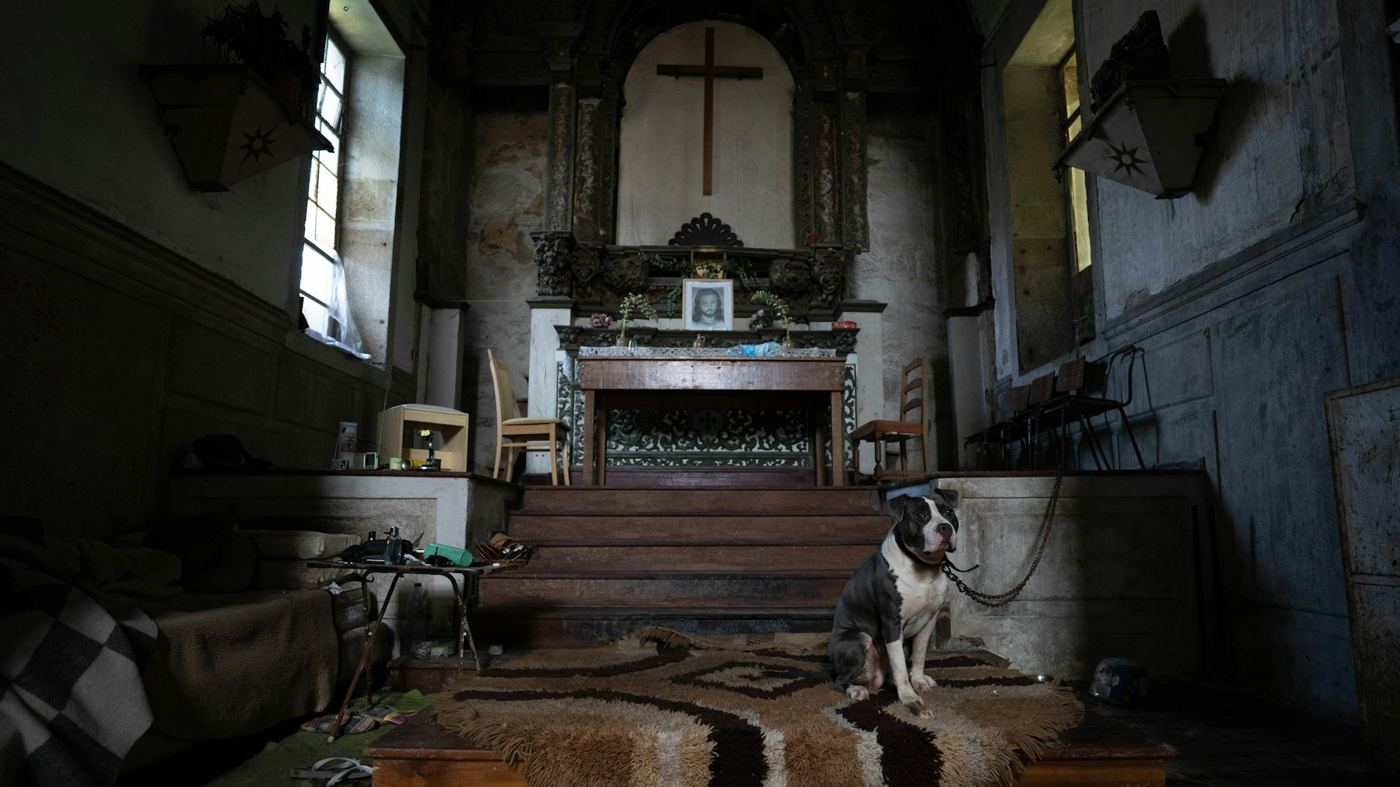
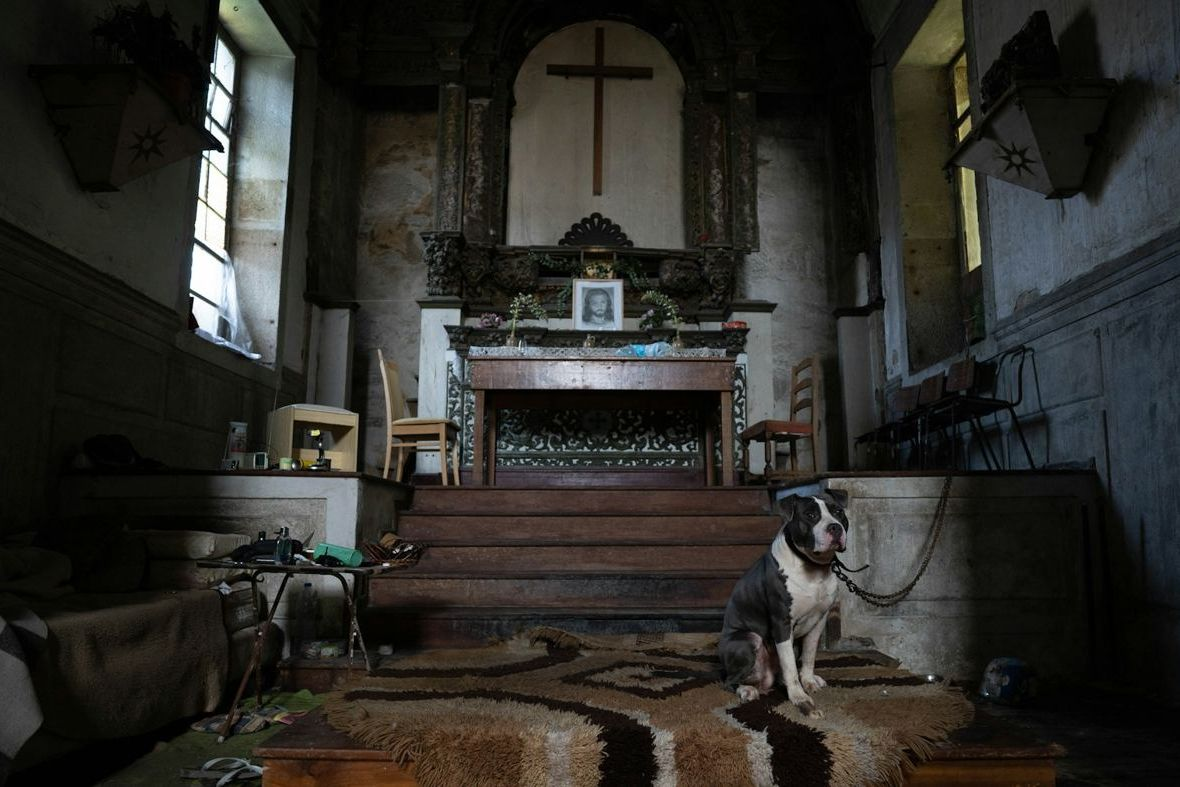
Kolibri-Seite: Licht- und Farbspiel folgt echten Objekten (Fensterlicht, Himmel, Möbel, Pflanzen, Vorhänge) statt Farbflecken
Claude-Session: https://claude.ai/code/session_01BfUFskKUTpTaCydK1EPK3d

diff --git a/public/hauptseite/referenzen/make-it-real/index.html b/public/hauptseite/referenzen/make-it-real/index.html
@@ -45,15 +45,26 @@ select{width:100%;background:#0b1030;border:1px solid #5666a8;color:white;border
 .ru-grid{display:grid;grid-template-columns:repeat(3,minmax(0,1fr));gap:16px}
 .ru{margin:0;position:relative;border-radius:12px;overflow:hidden;border:1px solid #5666a8;background:#0b1030;aspect-ratio:3/2}
 .ru-open{display:block;width:100%;height:100%;padding:0;border:0;background:none;cursor:zoom-in}.ru img{width:100%;height:100%;object-fit:cover;display:block}
-.ru::after{content:"";position:absolute;inset:0;background:var(--cyan);mix-blend-mode:soft-light;opacity:.95;pointer-events:none;transition:background 1.4s ease-in-out;-webkit-mask-image:var(--m);mask-image:var(--m)}
-.ru::before{content:"";position:absolute;inset:0;z-index:0;background:var(--cyan);mix-blend-mode:color;opacity:.6;pointer-events:none;transition:background 1.4s ease-in-out;-webkit-mask-image:var(--m);mask-image:var(--m)}
 .ru figcaption{position:absolute;left:0;right:0;bottom:0;z-index:1;padding:26px 12px 9px;font-size:10.5px;line-height:1.45;color:#e6eaff;background:linear-gradient(0deg,rgba(11,16,48,.92),rgba(11,16,48,0));pointer-events:none}
 .ru figcaption b{display:block;font-size:12.5px;font-weight:700;color:#fff;margin-bottom:1px}
 #ruDlg{border:1px solid #5666a8;border-radius:14px;background:#0b1030;color:var(--ink);padding:14px;max-width:min(1100px,94vw)}#ruDlg::backdrop{background:rgba(4,7,24,.82)}
 #ruDlg img{display:block;max-width:100%;max-height:78vh;margin:auto;border-radius:8px}#ruDlg p{margin:10px 2px 0;font-size:13px;color:#d6dcf6}
 .ru-x{position:absolute;right:10px;top:6px;background:none;border:0;color:#fff;font-size:30px;line-height:1;cursor:pointer;z-index:2}.ru-x:focus-visible,.ru-open:focus-visible{outline:2px solid #fff;outline-offset:-3px}
 @media(max-width:980px){.ru-grid{grid-template-columns:repeat(2,minmax(0,1fr))}}@media(max-width:560px){.ru-grid{grid-template-columns:1fr}}
-@media(prefers-reduced-motion:reduce){.ru::after,.ru::before{transition:none!important}}
+@media(prefers-reduced-motion:reduce){.ru::after,}
+
+/* ---- Verlassene Orte: einzelne Dinge im Bild spielen mit Licht und Farbe (Masken folgen den Objekten) ---- */
+@property --mh{syntax:'<angle>';inherits:true;initial-value:0deg}
+@property --lh{syntax:'<angle>';inherits:true;initial-value:130deg}
+:root{transition:--mh 1.6s ease-in-out,--lh 1.6s ease-in-out}
+.fx{position:absolute;inset:0;z-index:0;pointer-events:none;background-image:var(--img);background-size:100% 100%;-webkit-mask-image:var(--mk);mask-image:var(--mk);-webkit-mask-size:100% 100%;mask-size:100% 100%;-webkit-mask-repeat:no-repeat;mask-repeat:no-repeat;animation-delay:var(--d,0s);animation-iteration-count:infinite;animation-direction:alternate;animation-timing-function:ease-in-out}
+.fx-licht{animation-name:fxlicht;animation-duration:5.5s;filter:brightness(1.3) sepia(.9) saturate(2.4) hue-rotate(var(--lh))}
+.fx-himmel{animation-name:fxhimmel;animation-duration:9s;filter:brightness(.95) sepia(.7) saturate(1.8) hue-rotate(var(--lh))}
+.fx-farbe{animation-name:fxfarbe;animation-duration:7s;filter:hue-rotate(var(--mh)) saturate(1.3)}
+@keyframes fxlicht{from{filter:brightness(.6) sepia(.9) saturate(2.2) hue-rotate(var(--lh))}to{filter:brightness(1.75) sepia(.9) saturate(2.6) hue-rotate(var(--lh))}}
+@keyframes fxhimmel{from{filter:brightness(.7) sepia(.8) saturate(2) hue-rotate(var(--lh))}to{filter:brightness(1.15) sepia(.6) saturate(1.6) hue-rotate(var(--lh))}}
+@keyframes fxfarbe{from{filter:hue-rotate(calc(var(--mh) - 40deg)) saturate(1.2)}to{filter:hue-rotate(calc(var(--mh) + 40deg)) saturate(1.5)}}
+@media(prefers-reduced-motion:reduce){.fx{animation:none!important}}
 @media(prefers-reduced-motion:reduce){.hero-art,.art-window,h1 span,.strip b,.offer small,.primary{transition:none!important}}
 </style></head><body><aside class="topbar"><a href="../../index.html#/referenzen">← Zurück zur SECRET-58-Zentrale · Referenzen</a><span class="tag">Eigenes Designkonzept, kein Kundenauftrag</span><a href="../../index.html#/kontakt?bereich=webdesign&text=Ich%20m%C3%B6chte%20eine%20Webseite%20%C3%A4hnlich%20wie%20das%20Designkonzept%20%E2%80%9EMake%20it%20real.%20%E2%80%93%20Kreative%20Landingpage%E2%80%9C." style="color:#86e6cf">Ähnliche Webseite anfragen ↗</a></aside>
 <header><a class="logo" href="#" aria-label="Make it real Startseite"><i></i>make it real.</a><nav aria-label="Hauptnavigation"><a href="#idee">Die Idee</a><a href="#inspiration">Inspiration</a><a href="#weg">Der Weg</a><a href="#werkstatt">Werkstatt</a><a class="navcta" href="#werkstatt">Lass uns starten ↗</a></nav></header>
@@ -62,7 +73,7 @@ select{width:100%;background:#0b1030;border:1px solid #5666a8;color:white;border
 <section id="idee"><div class="eyebrow">Mehr als eine schöne Idee</div><div class="sectiontop"><h2>Es beginnt mit einem Funken.<br>Es bleibt ein Eindruck.</h2><p>Wie ein Kolibri: voller Energie, unverwechselbar und immer in Bewegung. Genau so darf sich deine nächste Idee anfühlen.</p></div><div class="offers"><article class="offer"><small>01 / KLARHEIT</small><h3>Deine Vision. Auf den Punkt.</h3><p>Was möchtest du verändern? Für wen? Aus einem ersten Gedanken wird eine klare Richtung.</p><span class="tag">IDEE & KONZEPT ↗</span></article><article class="offer"><small>02 / AUSDRUCK</small><h3>Mut zur eigenen Farbe.</h3><p>Farben, Formen und Worte, die zusammenpassen. Ein Auftritt, der deine Persönlichkeit sichtbar macht.</p><span class="tag">DESIGN & IDENTITÄT ↗</span></article><article class="offer"><small>03 / BEWEGUNG</small><h3>Vom Kopf in die Welt.</h3><p>Eine Seite zum Entdecken. Eine Geschichte zum Weitererzählen. Ein nächster Schritt, der sich richtig anfühlt.</p><span class="tag">WEB & ERLEBNIS ↗</span></article></div></section>
 <section class="experience" id="inspiration"><div class="visual"><div class="art-window" id="art" data-tint role="img" aria-label="Kolibri-Farbexperiment"></div><div class="visual-copy"><div class="eyebrow">Ein Motiv. Neue Möglichkeiten.</div><h2 style="margin-top:25px">Weniger gewöhnlich.<br>Mehr du.</h2><p>Ein kleiner Perspektivwechsel kann alles verändern. Das Motiv bleibt ruhig – nur die Farbstimmung wechselt alle zwei Sekunden zwischen Türkis, Violett und Gold. Pausiere den Wechsel oder wähle deine Farbe selbst.</p><div class="mood-bar" style="margin-top:0" role="group" aria-label="Farbstimmung wählen"><div class="palette"><button type="button" class="swatch" style="background:#86e6cf" data-mood="0" aria-label="Türkis" aria-pressed="true"></button><button type="button" class="swatch" style="background:#b9a8ff" data-mood="1" aria-label="Violett" aria-pressed="false"></button><button type="button" class="swatch" style="background:#e8c76a" data-mood="2" aria-label="Gold" aria-pressed="false"></button></div><button type="button" class="cyclebtn" data-cycle aria-pressed="false">Farbwechsel pausieren</button></div><div class="palette-label" data-mood-label>Türkis · Klar. Lebendig. Grenzenlos.</div><p class="mood-note" data-cycle-note></p><p class="sr-only" id="moodStatus" role="status"></p></div></div></section>
 <section id="weg"><div class="eyebrow">Von „Was wäre, wenn?“ zu „Wow.“</div><div class="sectiontop"><h2>Große Ideen.<br>Ein klarer nächster Schritt.</h2></div><div class="steps"><article><small>01 — ENTDECKEN</small><h3>Gib der Idee Raum.</h3><p>Sammle, was dich inspiriert. Ein Bild, ein Gefühl, ein Ziel. Der Anfang muss noch nicht perfekt sein.</p></article><article><small>02 — FORMEN</small><h3>Mach sie greifbar.</h3><p>Wähle eine Richtung und konzentriere dich auf das Wesentliche. Was soll jemand sehen, fühlen und tun?</p></article><article><small>03 — STARTEN</small><h3>Bring sie ins Rollen.</h3><p>Halte deinen ersten konkreten Schritt fest. Aus „irgendwann“ wird ein Projekt mit einer Richtung.</p></article></div></section>
-<section class="makro" id="makro"><div class="eyebrow">Makrofotografie</div><div class="sectiontop"><h2>Farbe im Detail.<br>Nah genug zum Staunen.</h2><p>Ein Federmotiv in Makro: Das Foto bleibt gleich, nur der Farbton wechselt mit der gewählten Stimmung – Türkis, Violett, Gold.</p></div><div class="mk-grid"><figure class="mk big"><div class="mk-img" data-tint-mk role="img" aria-label="Makrofoto einer schillernden Pfauenfeder mit blauem Auge, der Farbton folgt der gewählten Stimmung"></div><figcaption>Makro · Stimmung: <span data-mood-label></span></figcaption></figure><figure class="mk d1"><div class="mk-img" data-tint-mk role="img" aria-label="Detailausschnitt der Feder, Struktur und Glanz"></div><figcaption>Detail · Struktur</figcaption></figure><figure class="mk d2"><div class="mk-img" data-tint-mk role="img" aria-label="Detailausschnitt der Feder, Farbverlauf"></div><figcaption>Detail · Farbverlauf</figcaption></figure></div><p class="mk-note">Foto: Akshat Sharma auf Unsplash (freie Nutzung unter der Unsplash-Lizenz). Platzhalter für eigene Makroaufnahmen von SECRET 58; es zeigt keine Personen und keine Kundenprojekte.</p><div class="ruinen"><h3>Verlassene Orte</h3><p class="sub">Alte Kirchen, Ruinen und aufgegebene Räume, in denen Möbel und Spuren des Lebens zurückgeblieben sind. Die Fotos bleiben, wie sie sind. Nur ausgewählte Details (zum Beispiel Stühle, Fenster, Hund, Graffiti, Türen) wechseln mit der Stimmung ihre Farbe. Ein Klick zeigt das Originalfoto groß.</p><div class="ru-grid"><figure class="ru" style="--m:radial-gradient(ellipse 8% 16% at 64% 72%,#000 50%,transparent 100%),radial-gradient(ellipse 9% 20% at 50% 24%,#000 50%,transparent 100%)"><button type="button" class="ru-open" aria-label="Foto vergrößern: Verlassene Kirche mit Altar"><img src="ruinen/ruine-01.jpg" alt="Verlassene Kirche mit Altar, Kreuz und Teppich im Licht eines Fensters" loading="lazy" width="1400" height="787"></button><figcaption><b>Verlassene Kirche mit Altar</b>Foto: Gary Walker-Jones · Unsplash</figcaption></figure><figure class="ru" style="--m:radial-gradient(ellipse 30% 30% at 58% 45%,#000 50%,transparent 100%)"><button type="button" class="ru-open" aria-label="Foto vergrößern: Verlassene Holzkirche"><img src="ruinen/ruine-02.jpg" alt="Verlassene Holzkirche mit Türmchen und verwittertem Holz auf einer Wiese" loading="lazy" width="1400" height="933"></button><figcaption><b>Verlassene Holzkirche</b>Foto: Unsplash</figcaption></figure><figure class="ru" style="--m:radial-gradient(ellipse 7% 11% at 21% 45%,#000 50%,transparent 100%)"><button type="button" class="ru-open" aria-label="Foto vergrößern: Alte Steinkirche mit Rundfenster"><img src="ruinen/ruine-03.jpg" alt="Alte Steinkirche mit Spitzbogenfenster und rundem Fenster" loading="lazy" width="1400" height="933"></button><figcaption><b>Alte Steinkirche mit Rundfenster</b>Foto: Unsplash</figcaption></figure><figure class="ru" style="--m:radial-gradient(ellipse 10% 17% at 52% 40%,#000 50%,transparent 100%)"><button type="button" class="ru-open" aria-label="Foto vergrößern: Verlassene Kirche, Langschiff"><img src="ruinen/ruine-04.jpg" alt="Langschiff einer verlassenen Kirche mit Säulen und Bogenfenstern" loading="lazy" width="1400" height="933"></button><figcaption><b>Verlassene Kirche, Langschiff</b>Foto: Unsplash</figcaption></figure><figure class="ru" style="--m:radial-gradient(ellipse 12% 11% at 11% 88%,#000 50%,transparent 100%),radial-gradient(ellipse 12% 9% at 83% 90%,#000 50%,transparent 100%)"><button type="button" class="ru-open" aria-label="Foto vergrößern: Kirchenruine mit Backsteinboden"><img src="ruinen/ruine-05.jpg" alt="Kirchenruine mit Bögen, Backsteinboden und Pflanzen" loading="lazy" width="1400" height="933"></button><figcaption><b>Kirchenruine mit Backsteinboden</b>Foto: Unsplash</figcaption></figure><figure class="ru" style="--m:radial-gradient(ellipse 9% 15% at 53% 57%,#000 50%,transparent 100%)"><button type="button" class="ru-open" aria-label="Foto vergrößern: Gewölbte Ruinenhalle"><img src="ruinen/ruine-06.jpg" alt="Hohe gewölbte Halle einer Ruine mit großem Spitzbogenfenster" loading="lazy" width="1400" height="933"></button><figcaption><b>Gewölbte Ruinenhalle</b>Foto: Unsplash</figcaption></figure><figure class="ru" style="--m:radial-gradient(ellipse 19% 15% at 45% 33%,#000 50%,transparent 100%),radial-gradient(ellipse 5% 8% at 68% 38%,#000 50%,transparent 100%)"><button type="button" class="ru-open" aria-label="Foto vergrößern: Verlassener Theatersaal"><img src="ruinen/ruine-07.jpg" alt="Leerer Theatersaal mit Bühne, Vorhängen und Bogenfenstern in rotem Licht" loading="lazy" width="1400" height="931"></button><figcaption><b>Verlassener Theatersaal</b>Foto: Unsplash</figcaption></figure><figure class="ru" style="--m:radial-gradient(ellipse 24% 22% at 46% 76%,#000 50%,transparent 100%)"><button type="button" class="ru-open" aria-label="Foto vergrößern: Ruine mit eingestürztem Dach"><img src="ruinen/ruine-08.jpg" alt="Ruine mit eingestürztem Dach, Licht fällt durch die Balken, Pflanzen wachsen im Inneren" loading="lazy" width="1400" height="933"></button><figcaption><b>Ruine mit eingestürztem Dach</b>Foto: Inna Nasonova · Unsplash</figcaption></figure><figure class="ru" style="--m:radial-gradient(ellipse 46% 24% at 52% 70%,#000 50%,transparent 100%)"><button type="button" class="ru-open" aria-label="Foto vergrößern: Verlassener Saal mit Möbeln"><img src="ruinen/ruine-09.jpg" alt="Verlassener Saal mit umgestürzten Stühlen, Tischen und zersplittertem Glas" loading="lazy" width="1400" height="933"></button><figcaption><b>Verlassener Saal mit Möbeln</b>Foto: Intricate Explorer · Unsplash</figcaption></figure><figure class="ru" style="--m:radial-gradient(ellipse 13% 11% at 80% 72%,#000 50%,transparent 100%),radial-gradient(ellipse 5% 26% at 51% 62%,#000 50%,transparent 100%)"><button type="button" class="ru-open" aria-label="Foto vergrößern: Verfallener Raum mit Holzmöbeln"><img src="ruinen/ruine-10.jpg" alt="Verlassener Raum mit zerfallenden Wänden und Holzmöbeln" loading="lazy" width="1400" height="931"></button><figcaption><b>Verfallener Raum mit Holzmöbeln</b>Foto: Ed Stone · Unsplash</figcaption></figure><figure class="ru" style="--m:radial-gradient(ellipse 18% 23% at 46% 40%,#000 50%,transparent 100%)"><button type="button" class="ru-open" aria-label="Foto vergrößern: Bogenfenster im verlassenen Raum"><img src="ruinen/ruine-11.jpg" alt="Hohes Bogenfenster in einem verfallenen Raum mit Regal und Tisch" loading="lazy" width="1400" height="932"></button><figcaption><b>Bogenfenster im verlassenen Raum</b>Foto: Peter Herrmann · Unsplash</figcaption></figure><figure class="ru" style="--m:radial-gradient(ellipse 11% 33% at 55% 58%,#000 50%,transparent 100%)"><button type="button" class="ru-open" aria-label="Foto vergrößern: Offene Türen und Schutt"><img src="ruinen/ruine-12.jpg" alt="Verfallenes Gebäude mit offenen Türen und Schutt auf dem Boden" loading="lazy" width="1400" height="934"></button><figcaption><b>Offene Türen und Schutt</b>Foto: Ries Bosch · Unsplash</figcaption></figure><figure class="ru" style="--m:radial-gradient(ellipse 19% 13% at 30% 70%,#000 50%,transparent 100%)"><button type="button" class="ru-open" aria-label="Foto vergrößern: Sonnenlicht und alte Matratzen"><img src="ruinen/ruine-13.jpg" alt="Sonnendurchfluteter verlassener Raum mit alten Matratzen und zerbrochenen Fenstern" loading="lazy" width="1400" height="933"></button><figcaption><b>Sonnenlicht und alte Matratzen</b>Foto: X F · Unsplash</figcaption></figure><figure class="ru" style="--m:radial-gradient(ellipse 9% 15% at 42% 68%,#000 50%,transparent 100%)"><button type="button" class="ru-open" aria-label="Foto vergrößern: Blick durch eine offene Tür"><img src="ruinen/ruine-14.jpg" alt="Dunkler Raum mit Blick durch eine offene Tür auf einen Stuhl" loading="lazy" width="1400" height="933"></button><figcaption><b>Blick durch eine offene Tür</b>Foto: Unsplash</figcaption></figure><figure class="ru" style="--m:radial-gradient(ellipse 14% 27% at 21% 47%,#000 50%,transparent 100%),radial-gradient(ellipse 11% 16% at 70% 72%,#000 50%,transparent 100%)"><button type="button" class="ru-open" aria-label="Foto vergrößern: Rotes Zimmer mit Fenstern"><img src="ruinen/ruine-15.jpg" alt="Verlassenes Zimmer mit roten Wänden und zwei Fenstern" loading="lazy" width="1400" height="933"></button><figcaption><b>Rotes Zimmer mit Fenstern</b>Foto: Unsplash</figcaption></figure><figure class="ru" style="--m:radial-gradient(ellipse 10% 16% at 12% 36%,#000 50%,transparent 100%),radial-gradient(ellipse 6% 7% at 86% 68%,#000 50%,transparent 100%)"><button type="button" class="ru-open" aria-label="Foto vergrößern: Sonnenlicht im leeren Raum"><img src="ruinen/ruine-16.jpg" alt="Leerer verfallener Raum, warmes Licht fällt durch die Fenster" loading="lazy" width="1400" height="933"></button><figcaption><b>Sonnenlicht im leeren Raum</b>Foto: Unsplash</figcaption></figure><figure class="ru" style="--m:radial-gradient(ellipse 13% 13% at 46% 70%,#000 50%,transparent 100%),radial-gradient(ellipse 12% 7% at 10% 91%,#000 50%,transparent 100%)"><button type="button" class="ru-open" aria-label="Foto vergrößern: Verfallene Fabrikhalle mit Dachlicht"><img src="ruinen/ruine-17.jpg" alt="Verfallene Fabrikhalle mit Stahlträgern und Licht durch das Dach" loading="lazy" width="1400" height="933"></button><figcaption><b>Verfallene Fabrikhalle mit Dachlicht</b>Foto: Unsplash</figcaption></figure><figure class="ru" style="--m:radial-gradient(ellipse 6% 8% at 53% 72%,#000 50%,transparent 100%)"><button type="button" class="ru-open" aria-label="Foto vergrößern: Endlose Säulenhalle"><img src="ruinen/ruine-18.jpg" alt="Lange Halle mit Holzsäulen in einem verlassenen Gebäude" loading="lazy" width="1400" height="933"></button><figcaption><b>Endlose Säulenhalle</b>Foto: Unsplash</figcaption></figure><figure class="ru" style="--m:radial-gradient(ellipse 32% 13% at 50% 87%,#000 50%,transparent 100%)"><button type="button" class="ru-open" aria-label="Foto vergrößern: Überflutete Stahlhalle"><img src="ruinen/ruine-19.jpg" alt="Ausgebrannte Stahlhalle, Wasser spiegelt das Gerüst" loading="lazy" width="1400" height="933"></button><figcaption><b>Überflutete Stahlhalle</b>Foto: Unsplash</figcaption></figure><figure class="ru" style="--m:radial-gradient(ellipse 49% 8% at 50% 73%,#000 50%,transparent 100%),radial-gradient(ellipse 7% 6% at 84% 94%,#000 50%,transparent 100%)"><button type="button" class="ru-open" aria-label="Foto vergrößern: Halle, die die Natur zurückholt"><img src="ruinen/ruine-20.jpg" alt="Verfallene Halle mit Bogenfenstern, Pflanzen und Sonnenstrahlen" loading="lazy" width="1400" height="933"></button><figcaption><b>Halle, die die Natur zurückholt</b>Foto: Unsplash</figcaption></figure></div><p class="mk-note">Alle Fotos stammen von Unsplash und dürfen dort unter der Unsplash-Lizenz kostenlos genutzt werden; bei den Bildern ohne Namen steht die Fotografin oder der Fotograf auf der jeweiligen Unsplash-Seite. Sie sind Beispiele für die Bildwelt dieses Designkonzepts. Die Orte sind nicht als öffentlich zugänglich zu verstehen, bitte nicht betreten.</p></div>
+<section class="makro" id="makro"><div class="eyebrow">Makrofotografie</div><div class="sectiontop"><h2>Farbe im Detail.<br>Nah genug zum Staunen.</h2><p>Ein Federmotiv in Makro: Das Foto bleibt gleich, nur der Farbton wechselt mit der gewählten Stimmung – Türkis, Violett, Gold.</p></div><div class="mk-grid"><figure class="mk big"><div class="mk-img" data-tint-mk role="img" aria-label="Makrofoto einer schillernden Pfauenfeder mit blauem Auge, der Farbton folgt der gewählten Stimmung"></div><figcaption>Makro · Stimmung: <span data-mood-label></span></figcaption></figure><figure class="mk d1"><div class="mk-img" data-tint-mk role="img" aria-label="Detailausschnitt der Feder, Struktur und Glanz"></div><figcaption>Detail · Struktur</figcaption></figure><figure class="mk d2"><div class="mk-img" data-tint-mk role="img" aria-label="Detailausschnitt der Feder, Farbverlauf"></div><figcaption>Detail · Farbverlauf</figcaption></figure></div><p class="mk-note">Foto: Akshat Sharma auf Unsplash (freie Nutzung unter der Unsplash-Lizenz). Platzhalter für eigene Makroaufnahmen von SECRET 58; es zeigt keine Personen und keine Kundenprojekte.</p><div class="ruinen"><h3>Verlassene Orte</h3><p class="sub">Alte Kirchen, Ruinen und aufgegebene Räume, in denen Möbel und Spuren des Lebens zurückgeblieben sind. Die Fotos bleiben, wie sie sind. Nur einzelne Dinge im Bild spielen mit Licht und Farbe, wenn es sie gibt: das Licht in Fenstern und Dachöffnungen wird heller und dunkler, ein Himmel wechselt seine Stimmung, Stühle, Pflanzen, Vorhänge oder Tapeten wechseln die Farbe. Die gewählte Stimmung bestimmt den Farbton. Ein Klick zeigt das Originalfoto groß.</p><div class="ru-grid"><figure class="ru"><button type="button" class="ru-open" aria-label="Foto vergrößern: Verlassene Kirche mit Altar"><img src="ruinen/ruine-01.jpg" alt="Verlassene Kirche mit Altar, Kreuz und Teppich im Licht eines Fensters" loading="lazy" width="1400" height="787"></button><span class="fx fx-licht" aria-hidden="true" style="--img:url(ruinen/ruine-01.jpg);--mk:url(ruinen/masken/01-a.png);--d:-1.7s"></span><figcaption><b>Verlassene Kirche mit Altar</b>Foto: Gary Walker-Jones · Unsplash · Spiel: Fensterlicht</figcaption></figure><figure class="ru"><button type="button" class="ru-open" aria-label="Foto vergrößern: Verlassene Holzkirche"><img src="ruinen/ruine-02.jpg" alt="Verlassene Holzkirche mit Türmchen und verwittertem Holz auf einer Wiese" loading="lazy" width="1400" height="933"></button><span class="fx fx-himmel" aria-hidden="true" style="--img:url(ruinen/ruine-02.jpg);--mk:url(ruinen/masken/02-a.png);--d:-3.4s"></span><figcaption><b>Verlassene Holzkirche</b>Foto: Unsplash · Spiel: Himmel</figcaption></figure><figure class="ru"><button type="button" class="ru-open" aria-label="Foto vergrößern: Alte Steinkirche mit Rundfenster"><img src="ruinen/ruine-03.jpg" alt="Alte Steinkirche mit Spitzbogenfenster und rundem Fenster" loading="lazy" width="1400" height="933"></button><span class="fx fx-himmel" aria-hidden="true" style="--img:url(ruinen/ruine-03.jpg);--mk:url(ruinen/masken/03-a.png);--d:-0.1s"></span><figcaption><b>Alte Steinkirche mit Rundfenster</b>Foto: Unsplash · Spiel: Himmel</figcaption></figure><figure class="ru"><button type="button" class="ru-open" aria-label="Foto vergrößern: Verlassene Kirche, Langschiff"><img src="ruinen/ruine-04.jpg" alt="Langschiff einer verlassenen Kirche mit Säulen und Bogenfenstern" loading="lazy" width="1400" height="933"></button><span class="fx fx-licht" aria-hidden="true" style="--img:url(ruinen/ruine-04.jpg);--mk:url(ruinen/masken/04-a.png);--d:-1.8s"></span><figcaption><b>Verlassene Kirche, Langschiff</b>Foto: Unsplash · Spiel: Licht in den Kirchenfenstern</figcaption></figure><figure class="ru"><button type="button" class="ru-open" aria-label="Foto vergrößern: Kirchenruine mit Backsteinboden"><img src="ruinen/ruine-05.jpg" alt="Kirchenruine mit Bögen, Backsteinboden und Pflanzen" loading="lazy" width="1400" height="933"></button><span class="fx fx-licht" aria-hidden="true" style="--img:url(ruinen/ruine-05.jpg);--mk:url(ruinen/masken/05-a.png);--d:-3.5s"></span><figcaption><b>Kirchenruine mit Backsteinboden</b>Foto: Unsplash · Spiel: Fensterlicht</figcaption></figure><figure class="ru"><button type="button" class="ru-open" aria-label="Foto vergrößern: Gewölbte Ruinenhalle"><img src="ruinen/ruine-06.jpg" alt="Hohe gewölbte Halle einer Ruine mit großem Spitzbogenfenster" loading="lazy" width="1400" height="933"></button><span class="fx fx-licht" aria-hidden="true" style="--img:url(ruinen/ruine-06.jpg);--mk:url(ruinen/masken/06-a.png);--d:-0.2s"></span><figcaption><b>Gewölbte Ruinenhalle</b>Foto: Unsplash · Spiel: Fensterlicht</figcaption></figure><figure class="ru"><button type="button" class="ru-open" aria-label="Foto vergrößern: Verlassener Theatersaal"><img src="ruinen/ruine-07.jpg" alt="Leerer Theatersaal mit Bühne, Vorhängen und Bogenfenstern in rotem Licht" loading="lazy" width="1400" height="931"></button><span class="fx fx-licht" aria-hidden="true" style="--img:url(ruinen/ruine-07.jpg);--mk:url(ruinen/masken/07-a.png);--d:-1.9s"></span><span class="fx fx-farbe" aria-hidden="true" style="--img:url(ruinen/ruine-07.jpg);--mk:url(ruinen/masken/07-b.png);--d:-4.2s"></span><figcaption><b>Verlassener Theatersaal</b>Foto: Unsplash · Spiel: Fensterlicht und Vorhang</figcaption></figure><figure class="ru"><button type="button" class="ru-open" aria-label="Foto vergrößern: Ruine mit eingestürztem Dach"><img src="ruinen/ruine-08.jpg" alt="Ruine mit eingestürztem Dach, Licht fällt durch die Balken, Pflanzen wachsen im Inneren" loading="lazy" width="1400" height="933"></button><span class="fx fx-licht" aria-hidden="true" style="--img:url(ruinen/ruine-08.jpg);--mk:url(ruinen/masken/08-a.png);--d:-3.6s"></span><span class="fx fx-farbe" aria-hidden="true" style="--img:url(ruinen/ruine-08.jpg);--mk:url(ruinen/masken/08-b.png);--d:-0.9s"></span><figcaption><b>Ruine mit eingestürztem Dach</b>Foto: Inna Nasonova · Unsplash · Spiel: Dachlicht und Pflanzen</figcaption></figure><figure class="ru"><button type="button" class="ru-open" aria-label="Foto vergrößern: Verlassener Saal mit Möbeln"><img src="ruinen/ruine-09.jpg" alt="Verlassener Saal mit umgestürzten Stühlen, Tischen und zersplittertem Glas" loading="lazy" width="1400" height="933"></button><span class="fx fx-farbe" aria-hidden="true" style="--img:url(ruinen/ruine-09.jpg);--mk:url(ruinen/masken/09-a.png);--d:-0.3s"></span><figcaption><b>Verlassener Saal mit Möbeln</b>Foto: Intricate Explorer · Unsplash · Spiel: Stühle und Sofas</figcaption></figure><figure class="ru"><button type="button" class="ru-open" aria-label="Foto vergrößern: Verfallener Raum mit Holzmöbeln"><img src="ruinen/ruine-10.jpg" alt="Verlassener Raum mit zerfallenden Wänden und Holzmöbeln" loading="lazy" width="1400" height="931"></button><span class="fx fx-licht" aria-hidden="true" style="--img:url(ruinen/ruine-10.jpg);--mk:url(ruinen/masken/10-a.png);--d:-2.0s"></span><figcaption><b>Verfallener Raum mit Holzmöbeln</b>Foto: Ed Stone · Unsplash · Spiel: Fensterlicht</figcaption></figure><figure class="ru"><button type="button" class="ru-open" aria-label="Foto vergrößern: Bogenfenster im verlassenen Raum"><img src="ruinen/ruine-11.jpg" alt="Hohes Bogenfenster in einem verfallenen Raum mit Regal und Tisch" loading="lazy" width="1400" height="932"></button><span class="fx fx-farbe" aria-hidden="true" style="--img:url(ruinen/ruine-11.jpg);--mk:url(ruinen/masken/11-a.png);--d:-3.7s"></span><figcaption><b>Bogenfenster im verlassenen Raum</b>Foto: Peter Herrmann · Unsplash · Spiel: Ausblick durchs Fenster</figcaption></figure><figure class="ru"><button type="button" class="ru-open" aria-label="Foto vergrößern: Offene Türen und Schutt"><img src="ruinen/ruine-12.jpg" alt="Verfallenes Gebäude mit offenen Türen und Schutt auf dem Boden" loading="lazy" width="1400" height="934"></button><span class="fx fx-farbe" aria-hidden="true" style="--img:url(ruinen/ruine-12.jpg);--mk:url(ruinen/masken/12-a.png);--d:-0.4s"></span><figcaption><b>Offene Türen und Schutt</b>Foto: Ries Bosch · Unsplash · Spiel: Tapete</figcaption></figure><figure class="ru"><button type="button" class="ru-open" aria-label="Foto vergrößern: Sonnenlicht und alte Matratzen"><img src="ruinen/ruine-13.jpg" alt="Sonnendurchfluteter verlassener Raum mit alten Matratzen und zerbrochenen Fenstern" loading="lazy" width="1400" height="933"></button><span class="fx fx-licht" aria-hidden="true" style="--img:url(ruinen/ruine-13.jpg);--mk:url(ruinen/masken/13-a.png);--d:-2.1s"></span><span class="fx fx-licht" aria-hidden="true" style="--img:url(ruinen/ruine-13.jpg);--mk:url(ruinen/masken/13-b.png);--d:-4.4s"></span><figcaption><b>Sonnenlicht und alte Matratzen</b>Foto: X F · Unsplash · Spiel: Sonnenlicht und Fensterlicht</figcaption></figure><figure class="ru"><button type="button" class="ru-open" aria-label="Foto vergrößern: Blick durch eine offene Tür"><img src="ruinen/ruine-14.jpg" alt="Dunkler Raum mit Blick durch eine offene Tür auf einen Stuhl" loading="lazy" width="1400" height="933"></button><span class="fx fx-licht" aria-hidden="true" style="--img:url(ruinen/ruine-14.jpg);--mk:url(ruinen/masken/14-a.png);--d:-3.8s"></span><figcaption><b>Blick durch eine offene Tür</b>Foto: Unsplash · Spiel: Fensterlicht</figcaption></figure><figure class="ru"><button type="button" class="ru-open" aria-label="Foto vergrößern: Rotes Zimmer mit Fenstern"><img src="ruinen/ruine-15.jpg" alt="Verlassenes Zimmer mit roten Wänden und zwei Fenstern" loading="lazy" width="1400" height="933"></button><span class="fx fx-farbe" aria-hidden="true" style="--img:url(ruinen/ruine-15.jpg);--mk:url(ruinen/masken/15-a.png);--d:-0.5s"></span><figcaption><b>Rotes Zimmer mit Fenstern</b>Foto: Unsplash · Spiel: Fensterrahmen und Kacheln</figcaption></figure><figure class="ru"><button type="button" class="ru-open" aria-label="Foto vergrößern: Sonnenlicht im leeren Raum"><img src="ruinen/ruine-16.jpg" alt="Leerer verfallener Raum, warmes Licht fällt durch die Fenster" loading="lazy" width="1400" height="933"></button><span class="fx fx-licht" aria-hidden="true" style="--img:url(ruinen/ruine-16.jpg);--mk:url(ruinen/masken/16-a.png);--d:-2.2s"></span><figcaption><b>Sonnenlicht im leeren Raum</b>Foto: Unsplash · Spiel: Sonnenlicht</figcaption></figure><figure class="ru"><button type="button" class="ru-open" aria-label="Foto vergrößern: Verfallene Fabrikhalle mit Dachlicht"><img src="ruinen/ruine-17.jpg" alt="Verfallene Fabrikhalle mit Stahlträgern und Licht durch das Dach" loading="lazy" width="1400" height="933"></button><span class="fx fx-licht" aria-hidden="true" style="--img:url(ruinen/ruine-17.jpg);--mk:url(ruinen/masken/17-a.png);--d:-3.9s"></span><figcaption><b>Verfallene Fabrikhalle mit Dachlicht</b>Foto: Unsplash · Spiel: Dachlicht</figcaption></figure><figure class="ru"><button type="button" class="ru-open" aria-label="Foto vergrößern: Endlose Säulenhalle"><img src="ruinen/ruine-18.jpg" alt="Lange Halle mit Holzsäulen in einem verlassenen Gebäude" loading="lazy" width="1400" height="933"></button><span class="fx fx-licht" aria-hidden="true" style="--img:url(ruinen/ruine-18.jpg);--mk:url(ruinen/masken/18-a.png);--d:-0.6s"></span><figcaption><b>Endlose Säulenhalle</b>Foto: Unsplash · Spiel: Fensterlicht</figcaption></figure><figure class="ru"><button type="button" class="ru-open" aria-label="Foto vergrößern: Überflutete Stahlhalle"><img src="ruinen/ruine-19.jpg" alt="Ausgebrannte Stahlhalle, Wasser spiegelt das Gerüst" loading="lazy" width="1400" height="933"></button><span class="fx fx-licht" aria-hidden="true" style="--img:url(ruinen/ruine-19.jpg);--mk:url(ruinen/masken/19-a.png);--d:-2.3s"></span><span class="fx fx-licht" aria-hidden="true" style="--img:url(ruinen/ruine-19.jpg);--mk:url(ruinen/masken/19-b.png);--d:-4.6s"></span><figcaption><b>Überflutete Stahlhalle</b>Foto: Unsplash · Spiel: Himmel und Spiegelung im Wasser</figcaption></figure><figure class="ru"><button type="button" class="ru-open" aria-label="Foto vergrößern: Halle, die die Natur zurückholt"><img src="ruinen/ruine-20.jpg" alt="Verfallene Halle mit Bogenfenstern, Pflanzen und Sonnenstrahlen" loading="lazy" width="1400" height="933"></button><span class="fx fx-licht" aria-hidden="true" style="--img:url(ruinen/ruine-20.jpg);--mk:url(ruinen/masken/20-a.png);--d:-4.0s"></span><span class="fx fx-farbe" aria-hidden="true" style="--img:url(ruinen/ruine-20.jpg);--mk:url(ruinen/masken/20-b.png);--d:-1.3s"></span><figcaption><b>Halle, die die Natur zurückholt</b>Foto: Unsplash · Spiel: Fensterlicht und Graffiti</figcaption></figure></div><p class="mk-note">Alle Fotos stammen von Unsplash und dürfen dort unter der Unsplash-Lizenz kostenlos genutzt werden; bei den Bildern ohne Namen steht die Fotografin oder der Fotograf auf der jeweiligen Unsplash-Seite. Sie sind Beispiele für die Bildwelt dieses Designkonzepts. Die Orte sind nicht als öffentlich zugänglich zu verstehen, bitte nicht betreten.</p></div>
 <dialog id="ruDlg" aria-label="Foto vergrößert"><button type="button" class="ru-x" id="ruX" aria-label="Schließen">×</button><img id="ruImg" alt=""><p id="ruCap"></p></dialog>
 </section>
 <section class="werk" id="werkstatt"><div class="eyebrow">Projektwerkstatt</div><div class="sectiontop"><h2>Aus einer Idee wird<br>ein Plan.</h2><p>Halte Projekt, Ideen und Aufgaben fest – direkt hier in deinem Browser.</p></div>
@@ -106,6 +117,7 @@ function apply(i){
  idx=i;var m=MOODS[i];
  $$('[data-tint]').forEach(function(el){el.style.filter=m.filter});
  var MK=['none','hue-rotate(50deg) saturate(1.1)','hue-rotate(-62deg) saturate(1.1)'];
+ document.documentElement.style.setProperty('--mh',['0deg','70deg','-70deg'][i]);document.documentElement.style.setProperty('--lh',['130deg','235deg','5deg'][i]);
  $$('[data-tint-mk]').forEach(function(el){el.style.filter=MK[i]});
  document.documentElement.style.setProperty('--cyan',m.accent);
  $$('[data-mood-label]').forEach(function(el){el.textContent=m.text});
